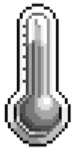
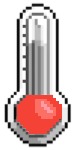
temperature works very well

Changed region(s): [[0.2133, 0.6133, 0.8267, 0.9067]]

diff --git a/Capstone/GamePanel.java b/Capstone/GamePanel.java
@@ -34,6 +34,7 @@ public class GamePanel extends JPanel implements MouseListener{
     // GUI handling
     JLabel planetLabel = new JLabel();
     int planetLabelSize = 300;
+    int tempScale = 2;
     JLabel[] blockRectLabels = new JLabel[0];
     JTextArea[] blockTextLabels = new JTextArea[0];
     JTextArea[] creatureTextLabels = new JTextArea[Planet.maxCreatures];
@@ -67,7 +68,6 @@ public class GamePanel extends JPanel implements MouseListener{
         objPanel = new ObjectivePanel(this, planet);
         this.add(qtePanel);
         this.add(objPanel);
-        int tempScale = 2;
         Image tempImg = new ImageIcon("assets/thermometer.png").getImage().getScaledInstance(80/tempScale, 150/tempScale, Image.SCALE_DEFAULT);
         ImageIcon tempIcon = new ImageIcon(tempImg);
         tempLabel = new JLabel(tempIcon);
@@ -76,7 +76,7 @@ public class GamePanel extends JPanel implements MouseListener{
         tempRectLabel = new JTextArea();
         tempRectLabel.setBounds(355, 48, 70/tempScale-24, 146/tempScale-10);
         tempRectLabel.setEditable(false);
-        tempRectLabel.setBackground(Color.red);
+        tempRectLabel.setBackground(new Color(255, 81, 69));
         this.add(tempRectLabel);
         background = new ImageIcon("assets/space_bg.png").getImage();
         // Add JLabels
@@ -166,8 +166,14 @@ public class GamePanel extends JPanel implements MouseListener{
     */
     public void updateLabels() {
       scoreLabel.setText(formatScore(planet.getScore()));
-      //tempLabel.setText(planet.getTemp() +" Celsius");
       humanLabel.setText(planet.getHumans() + " Humans");
+      // update temperature is more complicated
+      int tempHeight = 146/tempScale-10;
+      double tempLabelHeight = tempHeight/500.0*planet.getTemp();
+      double tempLabelY = 45 + tempHeight - tempLabelHeight;
+      System.out.println("355, "+(int)tempLabelY+", "+(70/tempScale-24)+", "+(int)tempLabelHeight);
+      tempRectLabel.setBounds(355, (int)tempLabelY, 70/tempScale-24, (int)tempLabelHeight);
+      
       displayCreatureLabels();
       objPanel.checkAllObjectives(); // Update objectives
       objPanel.displayObjectives();

diff --git a/Capstone/RockBlock.java b/Capstone/RockBlock.java
@@ -31,9 +31,10 @@ public class RockBlock extends Block {
       }
    }
    public void doFailedQTE() {
-      int num = 150+random.nextInt(100);
-      planet.addBlock(new LavaBlock("Lava", num));
-      if (planet.getBlockWithName(this.getName()).getVolume() > num)
+      if (this.volume > 350) {
+         int num = 150+random.nextInt(100);
+         planet.addBlock(new LavaBlock("Lava", num));
          planet.addBlock(new RockBlock(this.getName(), -num));
+      }
    }
 }

diff --git a/Capstone/IceBlock.java b/Capstone/IceBlock.java
@@ -17,7 +17,7 @@ public class IceBlock extends Block {
    public IceBlock(String n, int v) {
       super(n, v);
       this.type = "ice";
-      this.property = "Click Ice QTEs to cool down planet. DANGER: Missing QTEs makes ice disappear. Max volume = 800";
+      this.property = "Click Ice QTEs to cool down planet. DANGER: Missing QTEs makes ice disappear. Has a max volume";
    }
 
    /**
